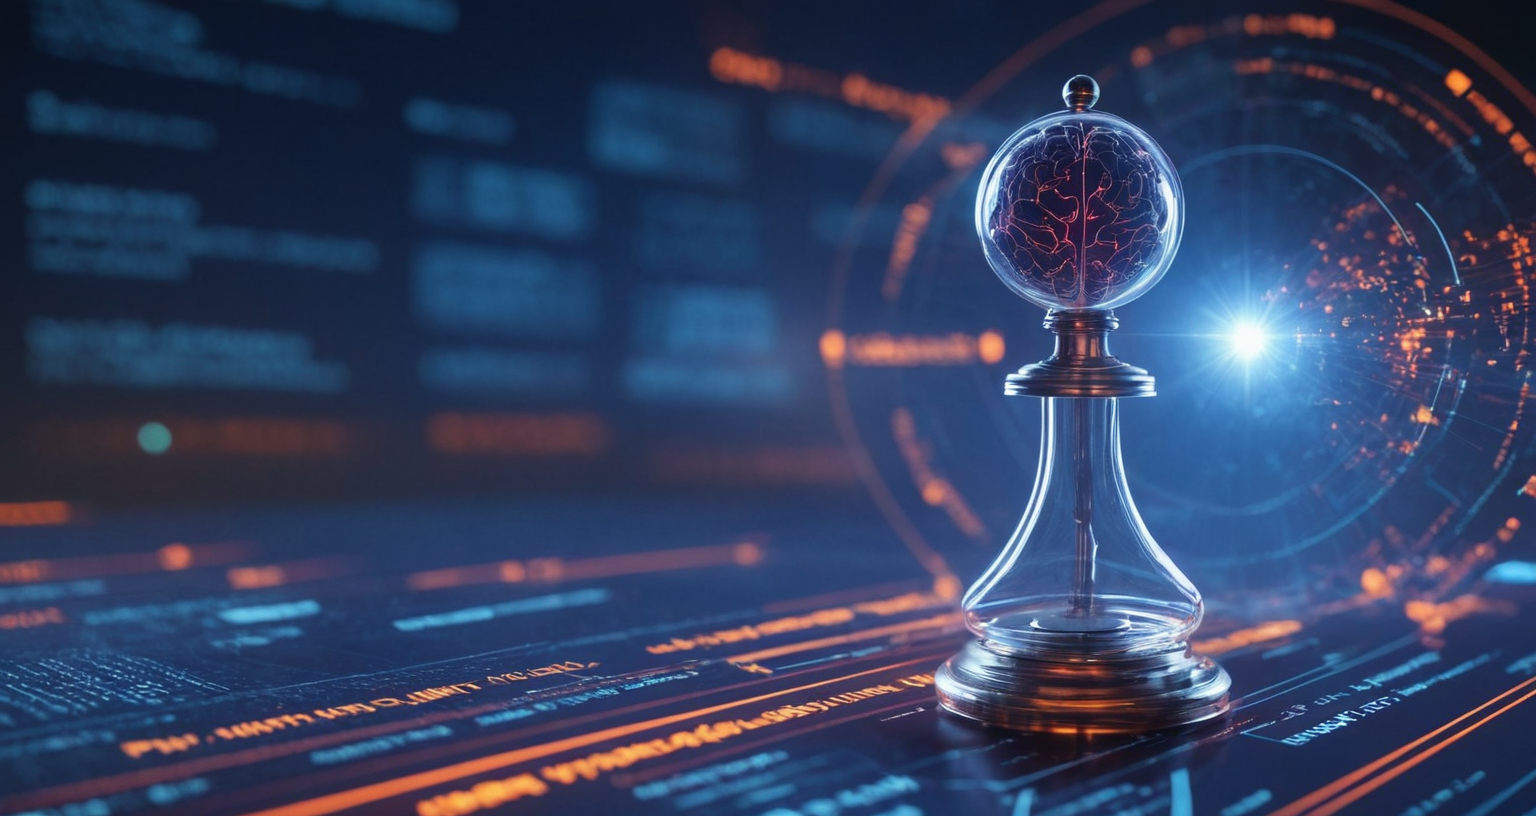
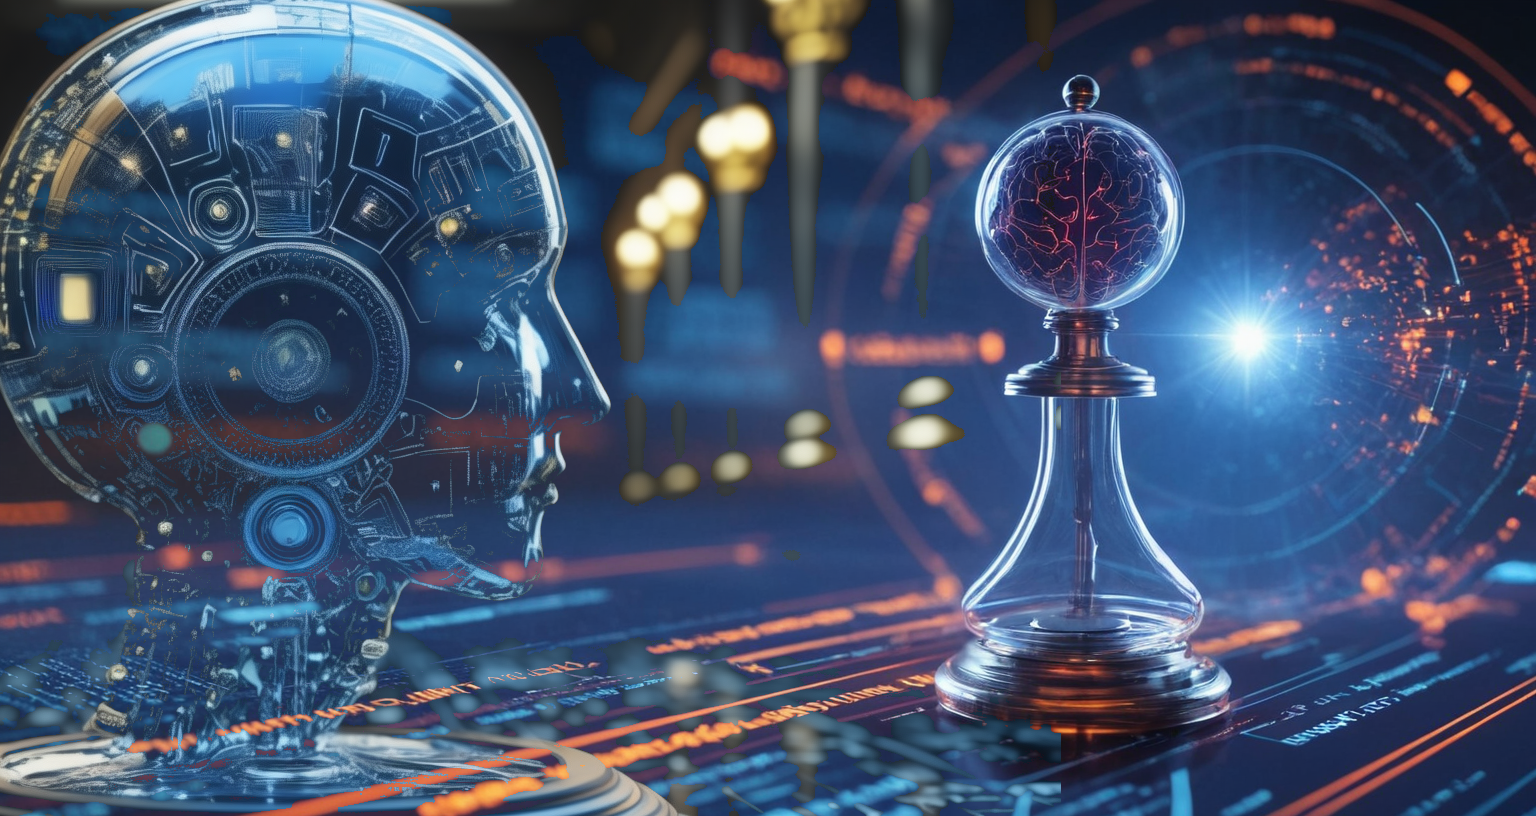
fixes

diff --git a/layouts/index.html b/layouts/index.html
@@ -11,9 +11,9 @@ $image.RelPermalink }}
         <h1 class="mb-4 text-h3 lg:text-h1 text-white ">
           {{ .title | markdownify }}
         </h1>
-        <p class="mb-8 text-white">
+        <h4 class="mb-8 font-bold shadow-lg animate-pulse  text-amber-500 ">
           {{ .content | markdownify }}
-        </p>
+        </h4>
         {{ with .button }}
         {{ if .enable }}
         <a class="btn btn-primary" href="{{ .link | absURL }}" {{ if strings.HasPrefix .link `http` }} target="_blank"

diff --git a/content/english/blog/post-1.md b/content/english/blog/post-1.md
@@ -3,7 +3,7 @@ title: "Navigating AI Governance: Insights from Research"
 meta_title: ""
 description: "This research explores AI governance, compliance challenges, and proposed solutions for organizations. Gain insights into the impact of regulations, learnings from GDPR, and the importance of audit in AI governance."
 date: 2022-04-04T05:00:00Z
-image: "/images/image-placeholder.png"
+image: "/images/imageblog.png"
 categories: ["AI", "Governance", "Compliance"]
 author: "Diptish Dey"
 tags: ["AI Regulation", "GDPR", "AI Governance", "Audit", "Compliance Challenges"]

diff --git a/content/english/_index.md b/content/english/_index.md
@@ -1,7 +1,7 @@
 ---
 banner:
   title: " AI Governance with APPRAISE"
-  content: "The website is currently undergoing construction. If you're keen to learn more about our work, you can explore our research paper on arXiv using the provided link."
+  content: "Artificial Intelligence Regulation, Ethical AI, Innovation, Compliance, AI Systems"
   image: banner.png
   button:
     enable: true
